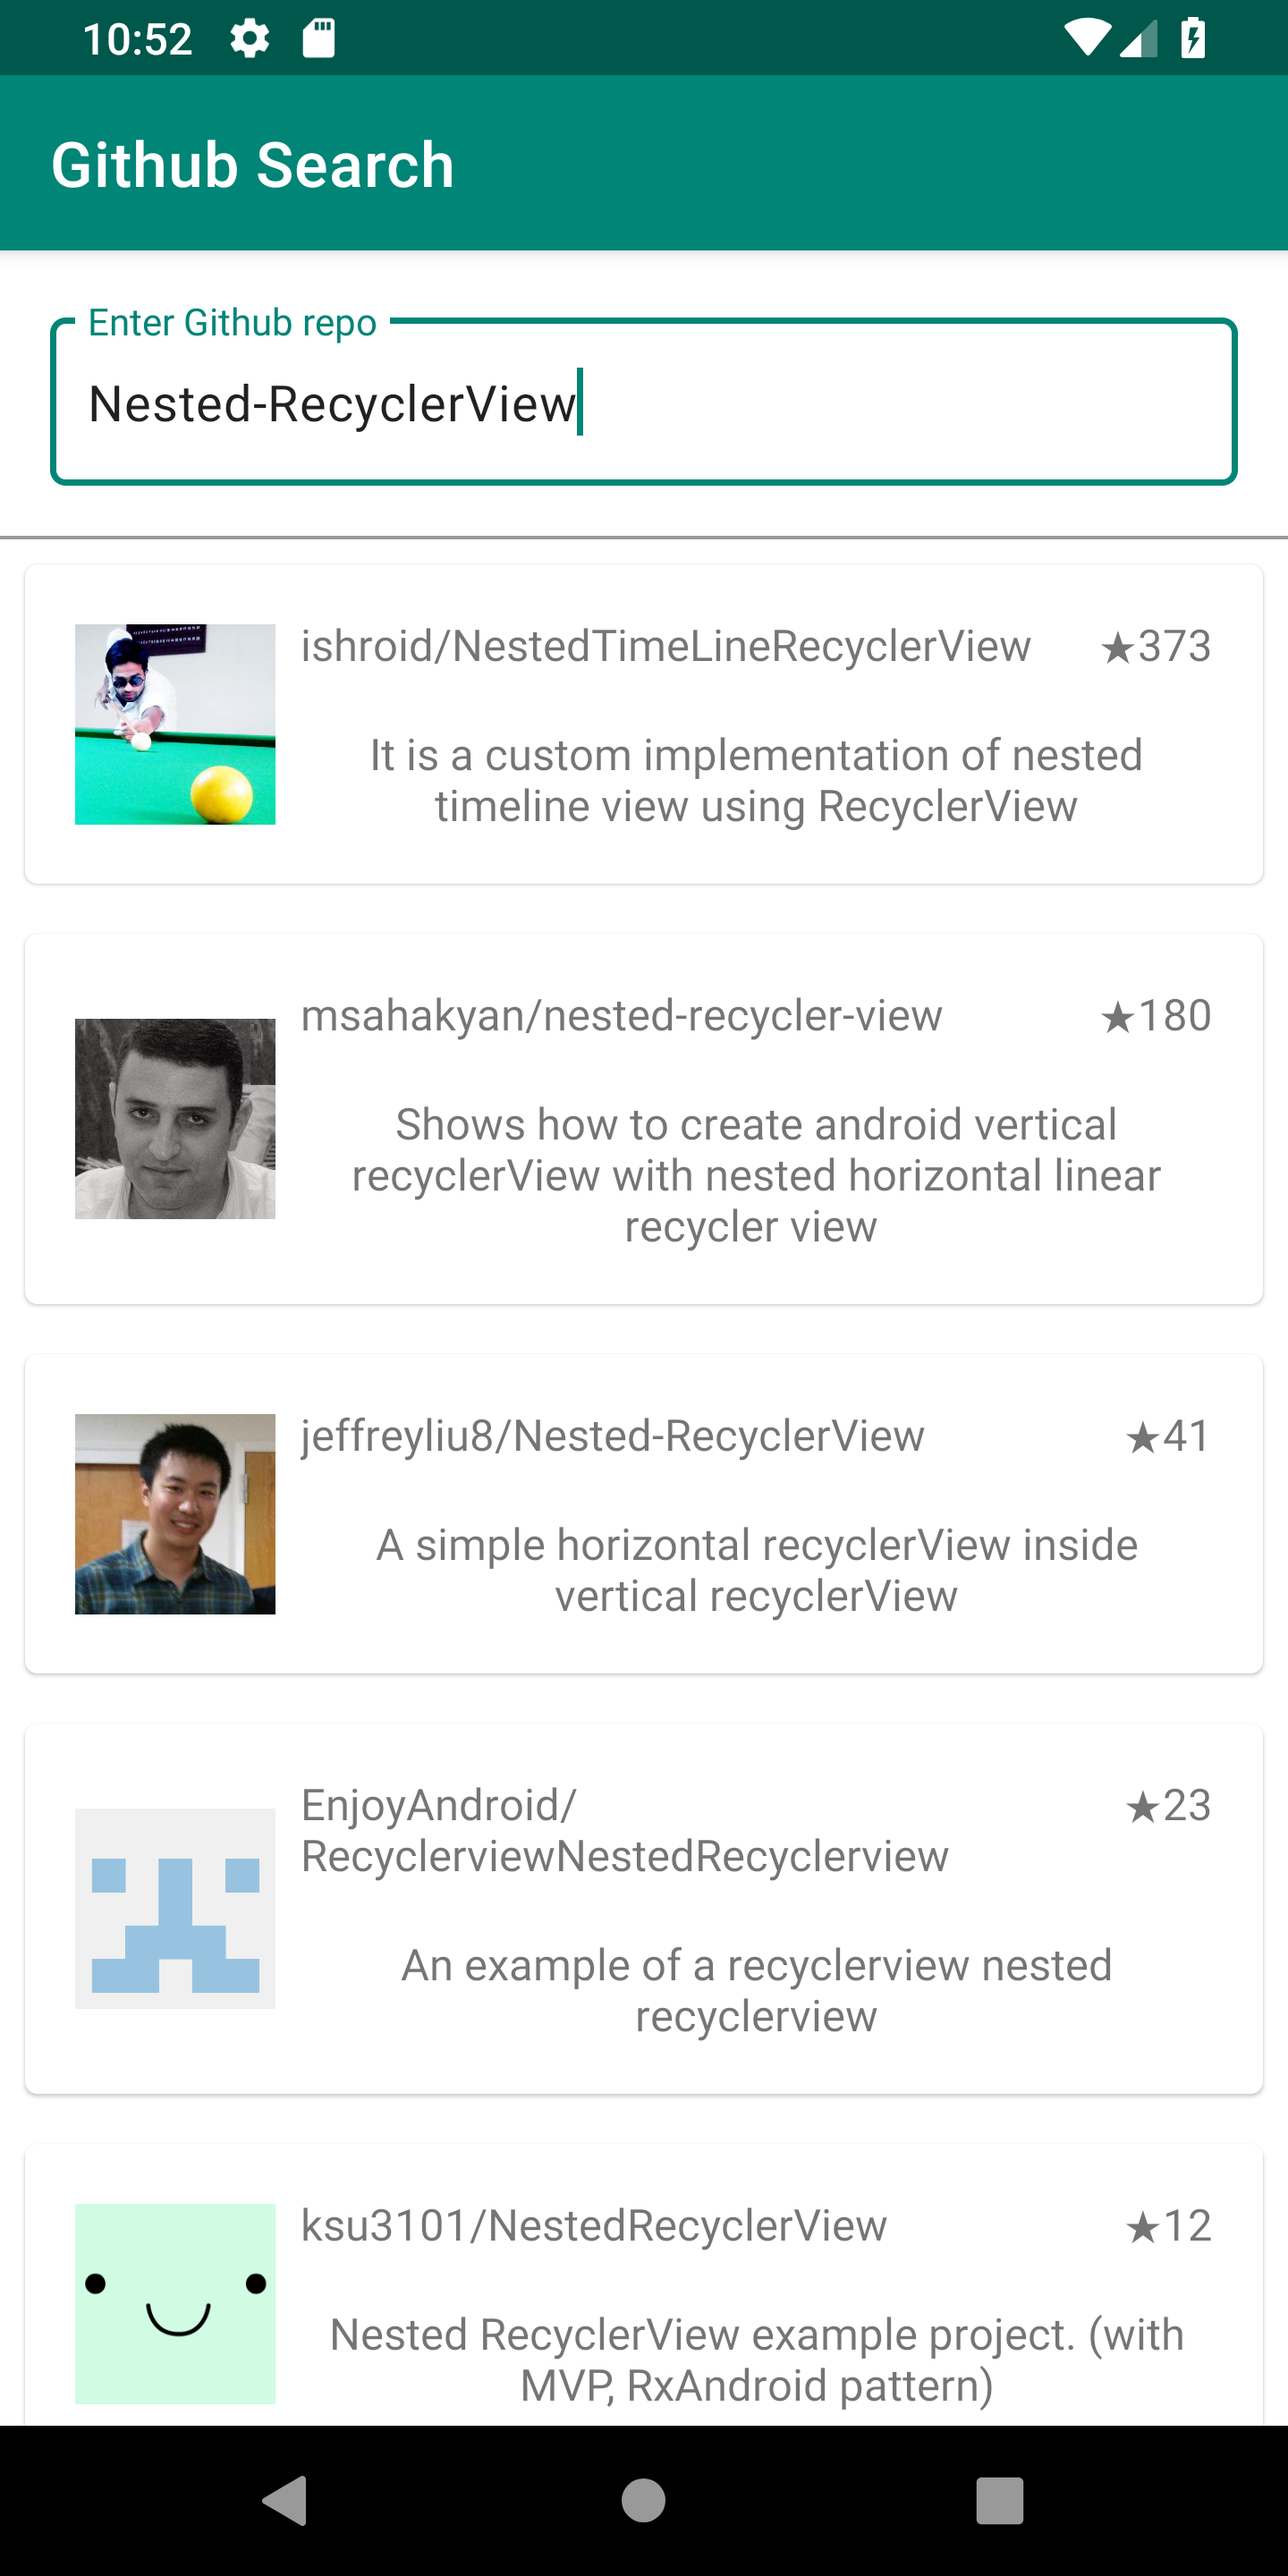
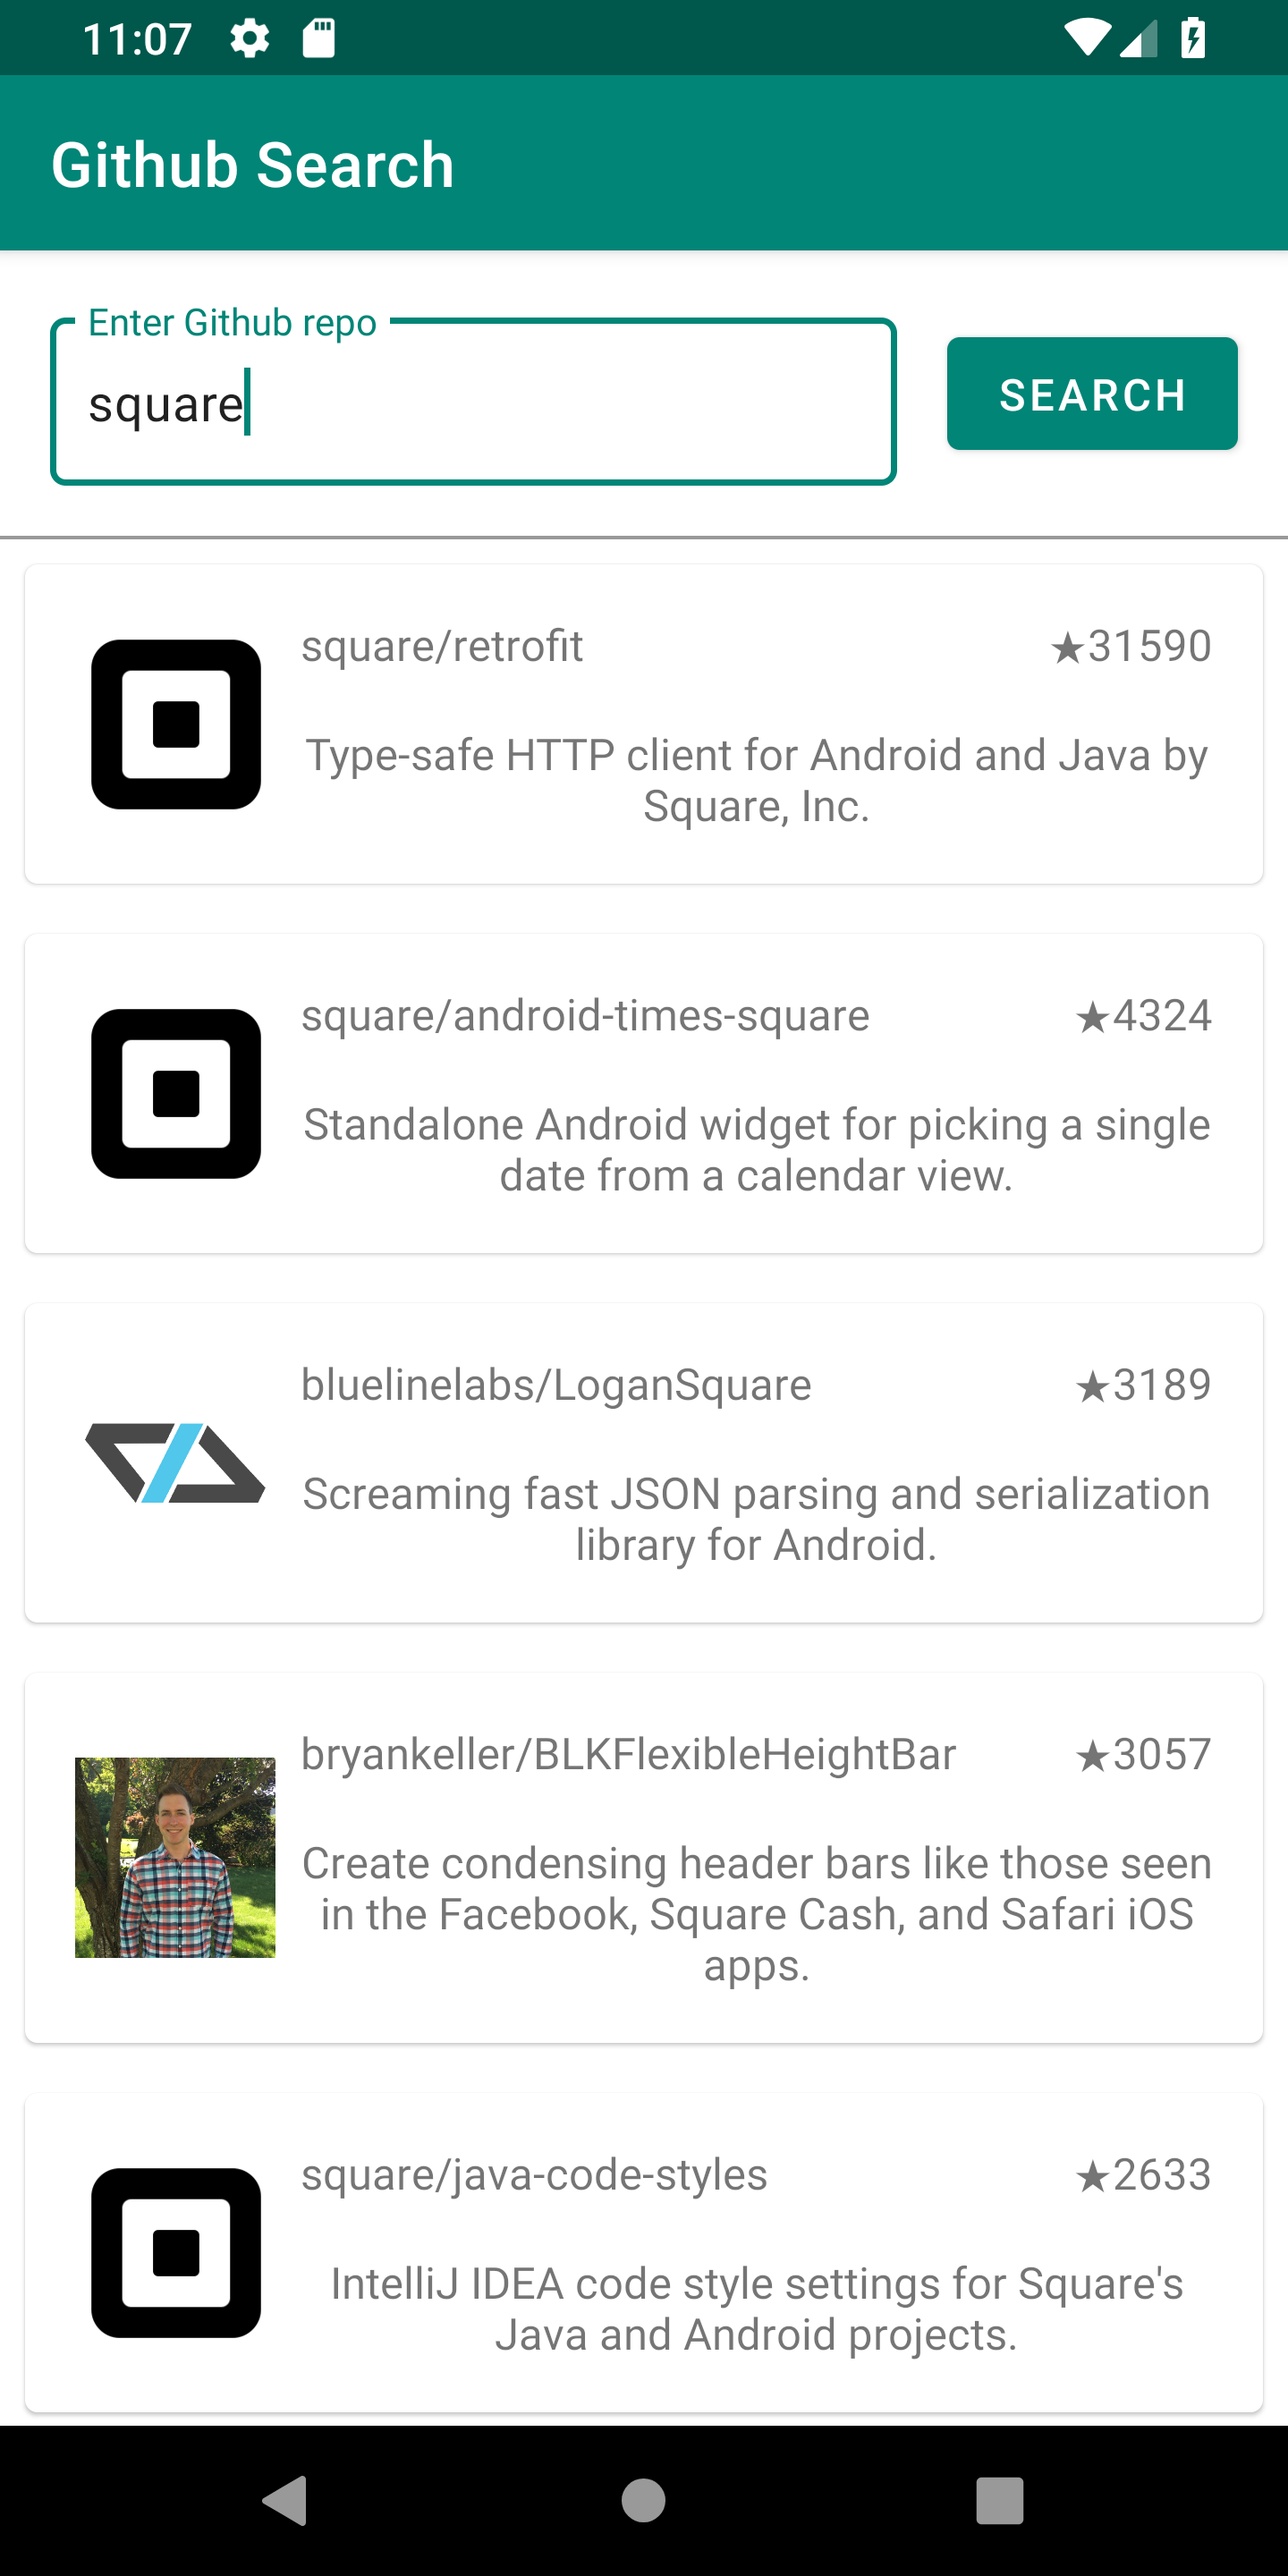
add button replacing debounce

diff --git a/app/src/main/java/com/askjeffreyliu/githubsearch/MainActivity.kt b/app/src/main/java/com/askjeffreyliu/githubsearch/MainActivity.kt
@@ -2,8 +2,6 @@ package com.askjeffreyliu.githubsearch
 
 import androidx.appcompat.app.AppCompatActivity
 import android.os.Bundle
-import android.text.Editable
-import android.text.TextWatcher
 
 import androidx.lifecycle.Observer
 import androidx.lifecycle.ViewModelProviders
@@ -12,16 +10,11 @@ import com.askjeffreyliu.githubsearch.adapter.ItemAdapter
 import com.askjeffreyliu.githubsearch.model.QueryResult
 import com.askjeffreyliu.githubsearch.viewmodel.MainViewModel
 import kotlinx.android.synthetic.main.activity_main.*
-import kotlinx.coroutines.GlobalScope
-import kotlinx.coroutines.delay
-import kotlinx.coroutines.launch
 
 class MainActivity : AppCompatActivity() {
 
     private lateinit var mAdapter: ItemAdapter
     private lateinit var viewModel: MainViewModel
-
-    private val debonce_time_milli = 500L
 
     override fun onCreate(savedInstanceState: Bundle?) {
         super.onCreate(savedInstanceState)
@@ -53,38 +46,9 @@ class MainActivity : AppCompatActivity() {
     }
 
     private fun setupUserInput() {
-        editText.addTextChangedListener(object : TextWatcher {
-            private var searchFor = ""
-
-            override fun afterTextChanged(s: Editable) {
-                val searchText = s.toString().trim()
-                if (searchText == searchFor)
-                    return
-
-                searchFor = searchText
-
-                // Start a coroutine
-                GlobalScope.launch {
-                    delay(debonce_time_milli)
-                    if (searchText != searchFor) {
-                        return@launch
-                    }
-
-                    viewModel.search(s.toString())
-                }
-            }
-
-            override fun beforeTextChanged(
-                s: CharSequence, start: Int,
-                count: Int, after: Int
-            ) {
-            }
-
-            override fun onTextChanged(
-                s: CharSequence, start: Int,
-                before: Int, count: Int
-            ) {
-            }
-        })
+        button.setOnClickListener {
+            val searchText = editText.text.toString().trim()
+            viewModel.search(searchText)
+        }
     }
 }

diff --git a/app/src/main/java/com/askjeffreyliu/githubsearch/viewmodel/MainViewModel.kt b/app/src/main/java/com/askjeffreyliu/githubsearch/viewmodel/MainViewModel.kt
@@ -16,7 +16,7 @@ class MainViewModel(application: Application) : AndroidViewModel(application) {
 
     fun search(query: String) {
         if (TextUtils.isEmpty(query)) {
-            liveData.postValue(null)
+            liveData.value = null
         } else {
             carAiRepository.search(query, "stars", "desc", liveData)
         }
